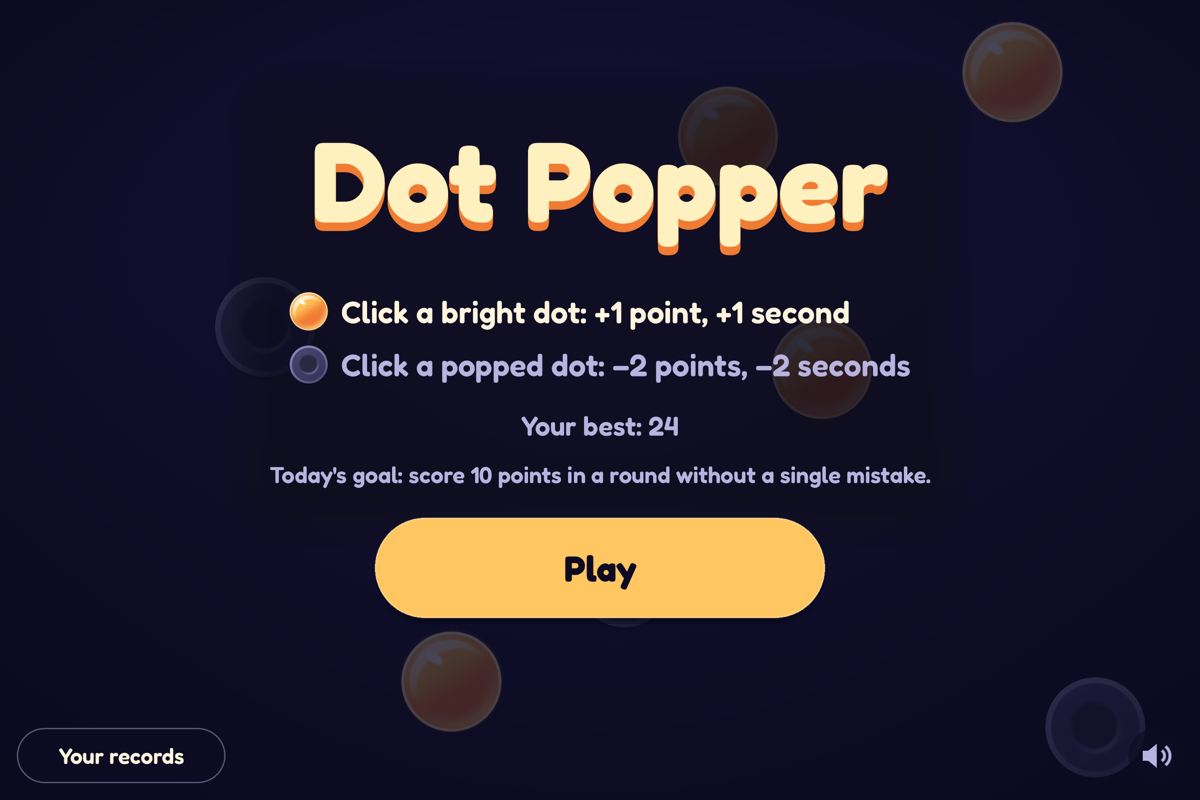
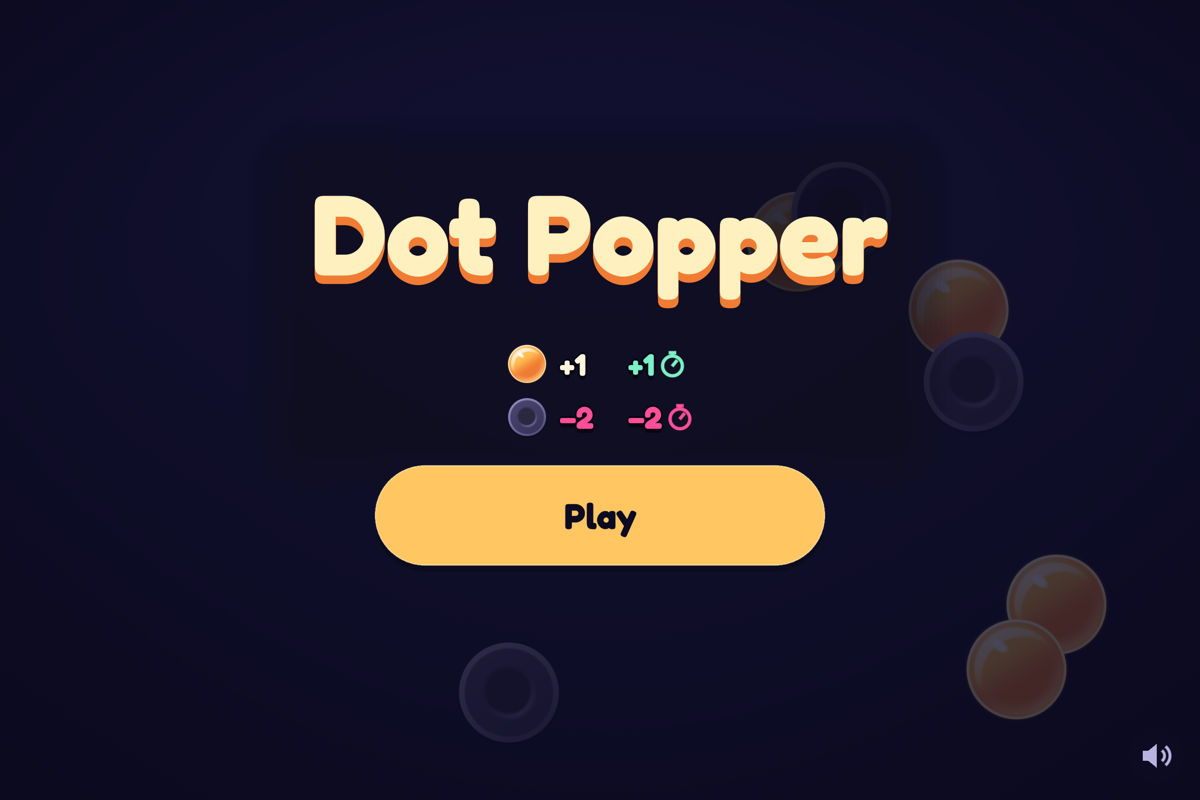
docs: show the wordless legend in the README's title screenshot
The README's title screenshot still showed the legend's two sentences.
It is now the title as a new player sees it at 1200 by 800, with the
legend's dots, numbers and stopwatches, and its alt text says so.

diff --git a/README.md b/README.md
@@ -35,7 +35,7 @@ Dot Popper is free and open source. [Download it](#install) from the releases pa
 - **Sound from where it happens.** A pop on the left of the screen plays from your left speaker.
 
 <p>
-  <img src="doc/images/title.png" alt="The title screen: a bright dot beside +1 and +1 second, a popped dot beside −2 and −2 seconds, your best score, today's goal, and a Play button" width="49%">
+  <img src="doc/images/title.png" alt="The title screen: a bright dot beside +1 and +1 second, a popped dot beside −2 and −2 seconds, and a Play button" width="49%">
   <img src="doc/images/game_over.png" alt="Game Over: Time's up, a score of 24, and the popped dots piled at the bottom of the screen" width="49%">
 </p>
 
